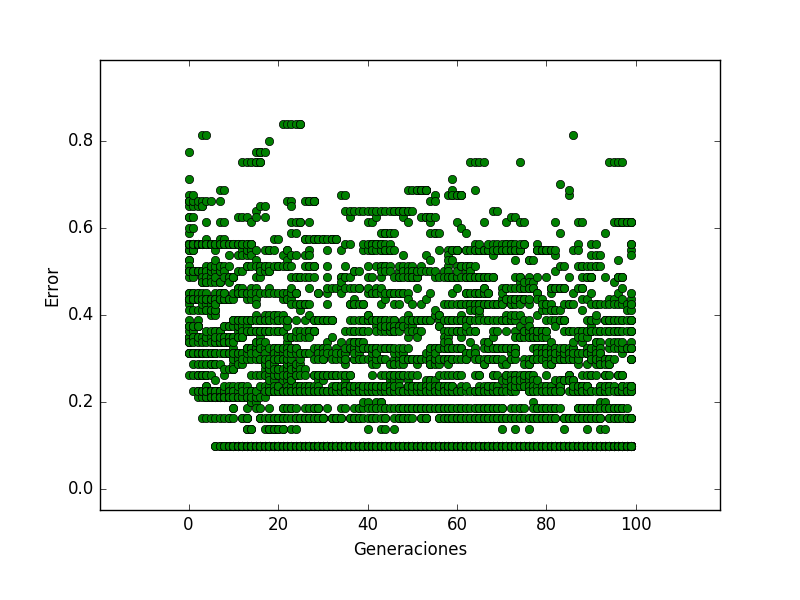
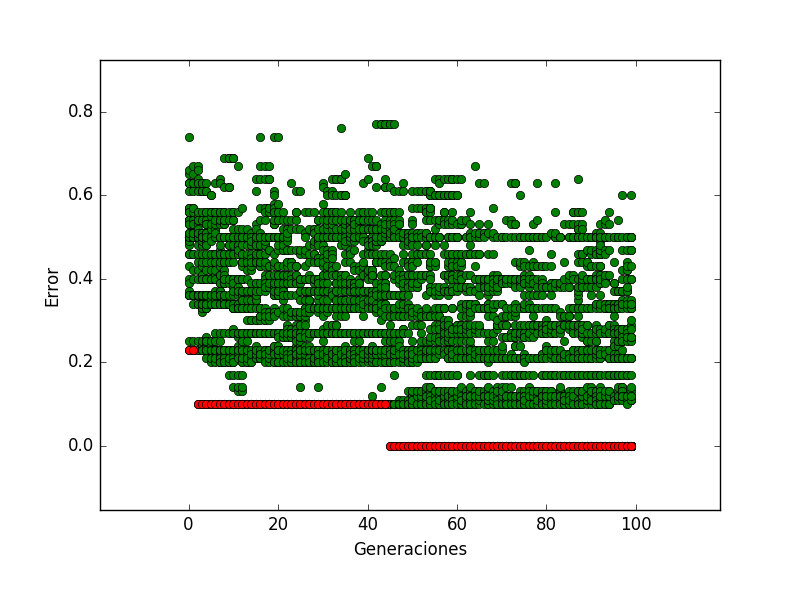
V1.1

diff --git a/ProgramacionGeneticaBinaria/ProgramacionGenetica.py b/ProgramacionGeneticaBinaria/ProgramacionGenetica.py
@@ -16,6 +16,10 @@ def genMuestra(n = 1):
 	muestraR = []
 	for i in xrange(0,n):
 		a = [ random.randint(0,1) for x in xrange(0,3)]
+		#aux = [ j-j for j in xrange( 0,Individuo.numVar-len(bin(i)[2:]) ) ] + list( bin(i)[2:] ) 
+		#a = [ int(j) for j in aux ]
+		#print a
+
 		#print int(''.join(a), 2 )
 		r = a[0]
 		for i in xrange(1,len(a)) :
@@ -52,6 +56,7 @@ def main(NIND = 8, MAXGE = 2 , NMUESTRA = 80, PROFUNDIDAD = 5 ,indEli =0,PC = 60
 	PM = 2
 	"""
 	MaxFun =[]
+	MaxGen = []
 	muestra = genMuestra(NMUESTRA)
 	Pob = PoblacionInicial.aleatorio(NIND,PROFUNDIDAD)
 	Calificacion.adaptacion(Pob,muestra[0],muestra[1])
@@ -89,6 +94,7 @@ def main(NIND = 8, MAXGE = 2 , NMUESTRA = 80, PROFUNDIDAD = 5 ,indEli =0,PC = 60
 		f.write( "------ END POBLACION ---------\n" )
 		"""
 		Pob = ordenar(Pob)
+		MaxGen.append(Pob[0].error)
 		for i in xrange(0,indEli):
 			NuevaPob.append(Pob[i])
 		Pob = NuevaPob
@@ -140,8 +146,9 @@ def main(NIND = 8, MAXGE = 2 , NMUESTRA = 80, PROFUNDIDAD = 5 ,indEli =0,PC = 60
 			ejeX.append(i)	
 
 	#plt.plot([i for i in xrange (0,NMUESTRA )], muestra[1], 'ro')
-	#plt.plot([i for i in xrange (0,NMUESTRA )], plot, 'bo')
 	plt.plot(ejeX, MaxFun, 'go')
+	plt.plot([i for i in xrange (0,MAXGE )], MaxGen, 'ro')
+	
 	plt.margins(0.2)
 	plt.subplots_adjust(bottom=0.15)
 	plt.xlabel('Generaciones')
@@ -156,7 +163,7 @@ poMax.error = 80
 PMa = 0
 
 for x in xrange(0,6):
-	i = main(NIND = 80, MAXGE = 100 , NMUESTRA = 80, PROFUNDIDAD = 8 ,indEli =4,PC = 60,PM = 2)
+	i = main(NIND = 80, MAXGE = 100 , NMUESTRA = 100, PROFUNDIDAD = 8 ,indEli =4,PC = 60,PM = 2)
 	print i.gen
 	print "Error : "+str(i.error) 
 	print "Pro Mutacion : " + str(PMa)

diff --git a/ProgramacionGeneticaBinaria/Individuo.py b/ProgramacionGeneticaBinaria/Individuo.py
@@ -45,6 +45,8 @@ class Individuo:
 				return self.full( prof )
 			elif metCrear == "GROW": 
 				return self.grow( prof )
+			elif metCrear == "halfaAndHalf": 
+				return self.halfaAndHalf( prof )
 
 	def full (self,prof):
 		global numVar
@@ -76,9 +78,15 @@ class Individuo:
 
 	def halfaAndHalf(self, prof):
 		fun = setFun[0][ random.randint( 0, len(setFun[0])-1 ) ]
-		exp = [fun]
-		for i in xrange (0,setFun[1][i]):
-			exp =  self.full(prof-1) + exp
+		inf = setFun[0].index(fun)
+		exp = []
+		for i in xrange (0,setFun[1][inf]):
+			if i%2 == 0 :
+				exp =  self.full(prof-1) + exp
+			else :
+				exp = self.grow(prof-1) + exp
+		exp = exp +[fun]
+		return exp
 
 	###################### operadores #######################################
 

diff --git a/ProgramacionGeneticaBinaria/Mutacion.py b/ProgramacionGeneticaBinaria/Mutacion.py
@@ -7,7 +7,7 @@ def punto (Pob,prof,PM = 2):
 	#print "------------ MUTACION ---------"   
 	for i in xrange(0,len(Pob)) :
 		if random.random()*100 < PM:
-			a = PoblacionInicial.aleatorio(1,random.randint(0,prof-1) )[0]
+			a = PoblacionInicial.aleatorio(1,random.randint(1,prof-1) )[0]
 			ResMez = Mezcla.mezclaPunto(Pob[i].gen,a.gen,[random.randint(0,len(Pob[i].gen)-1),len(a.gen)-1])
 			"""
 			print "------------Iniciar-----------"
